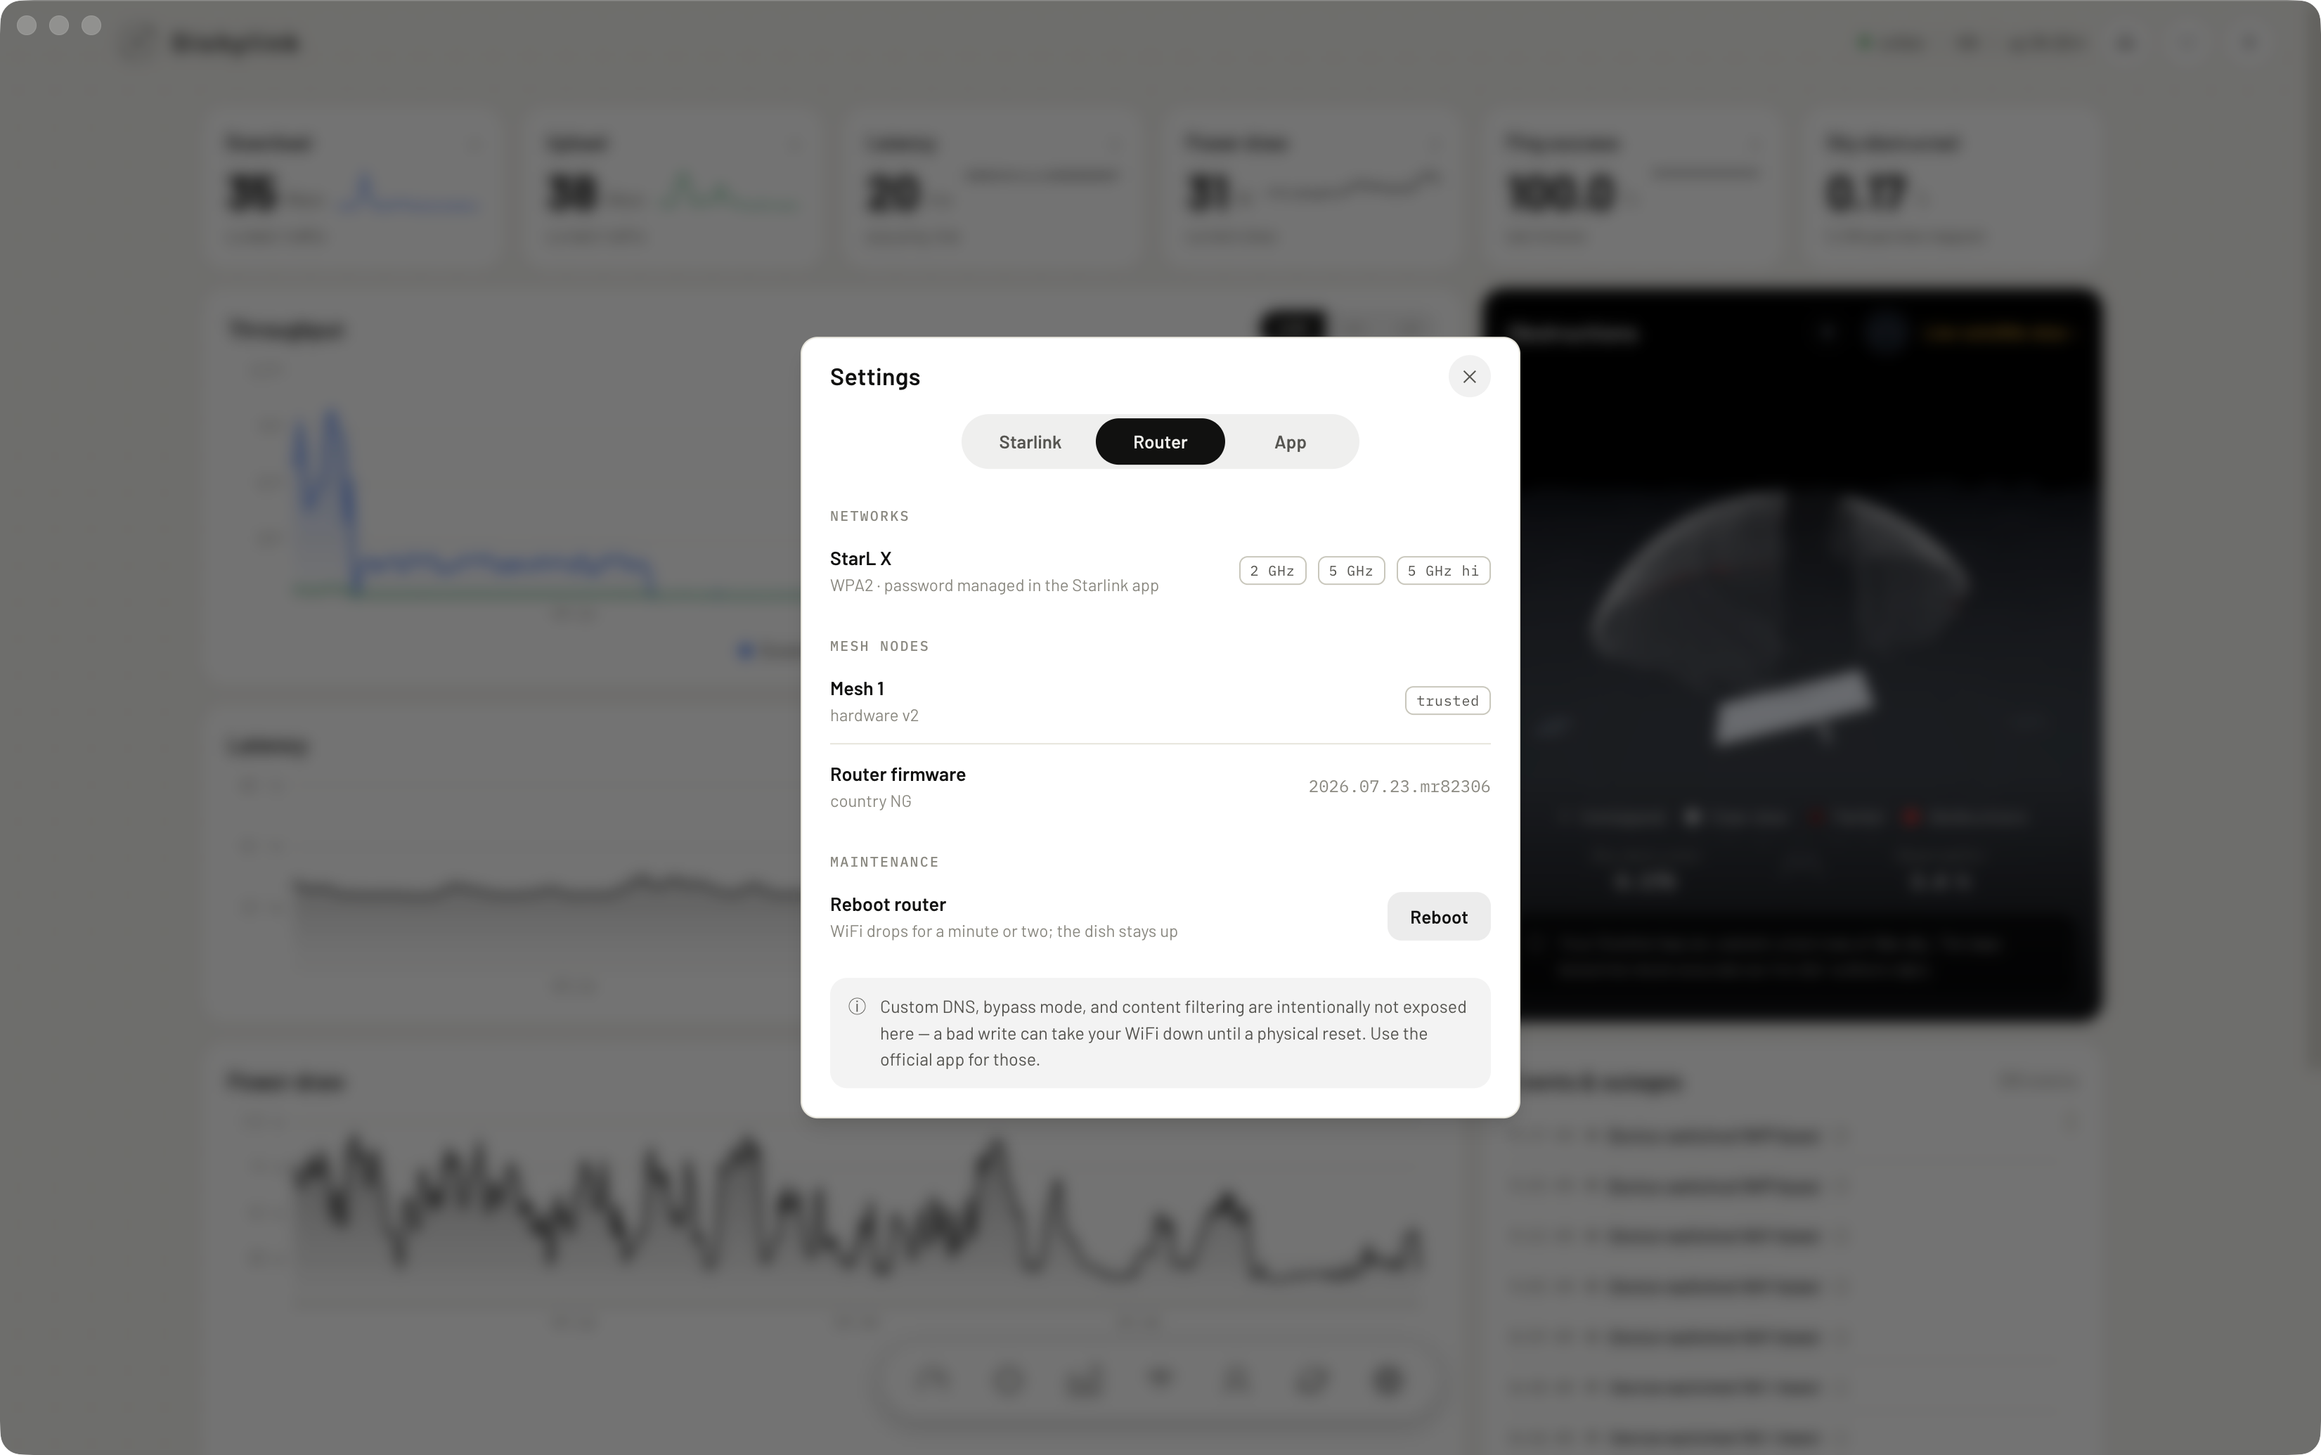
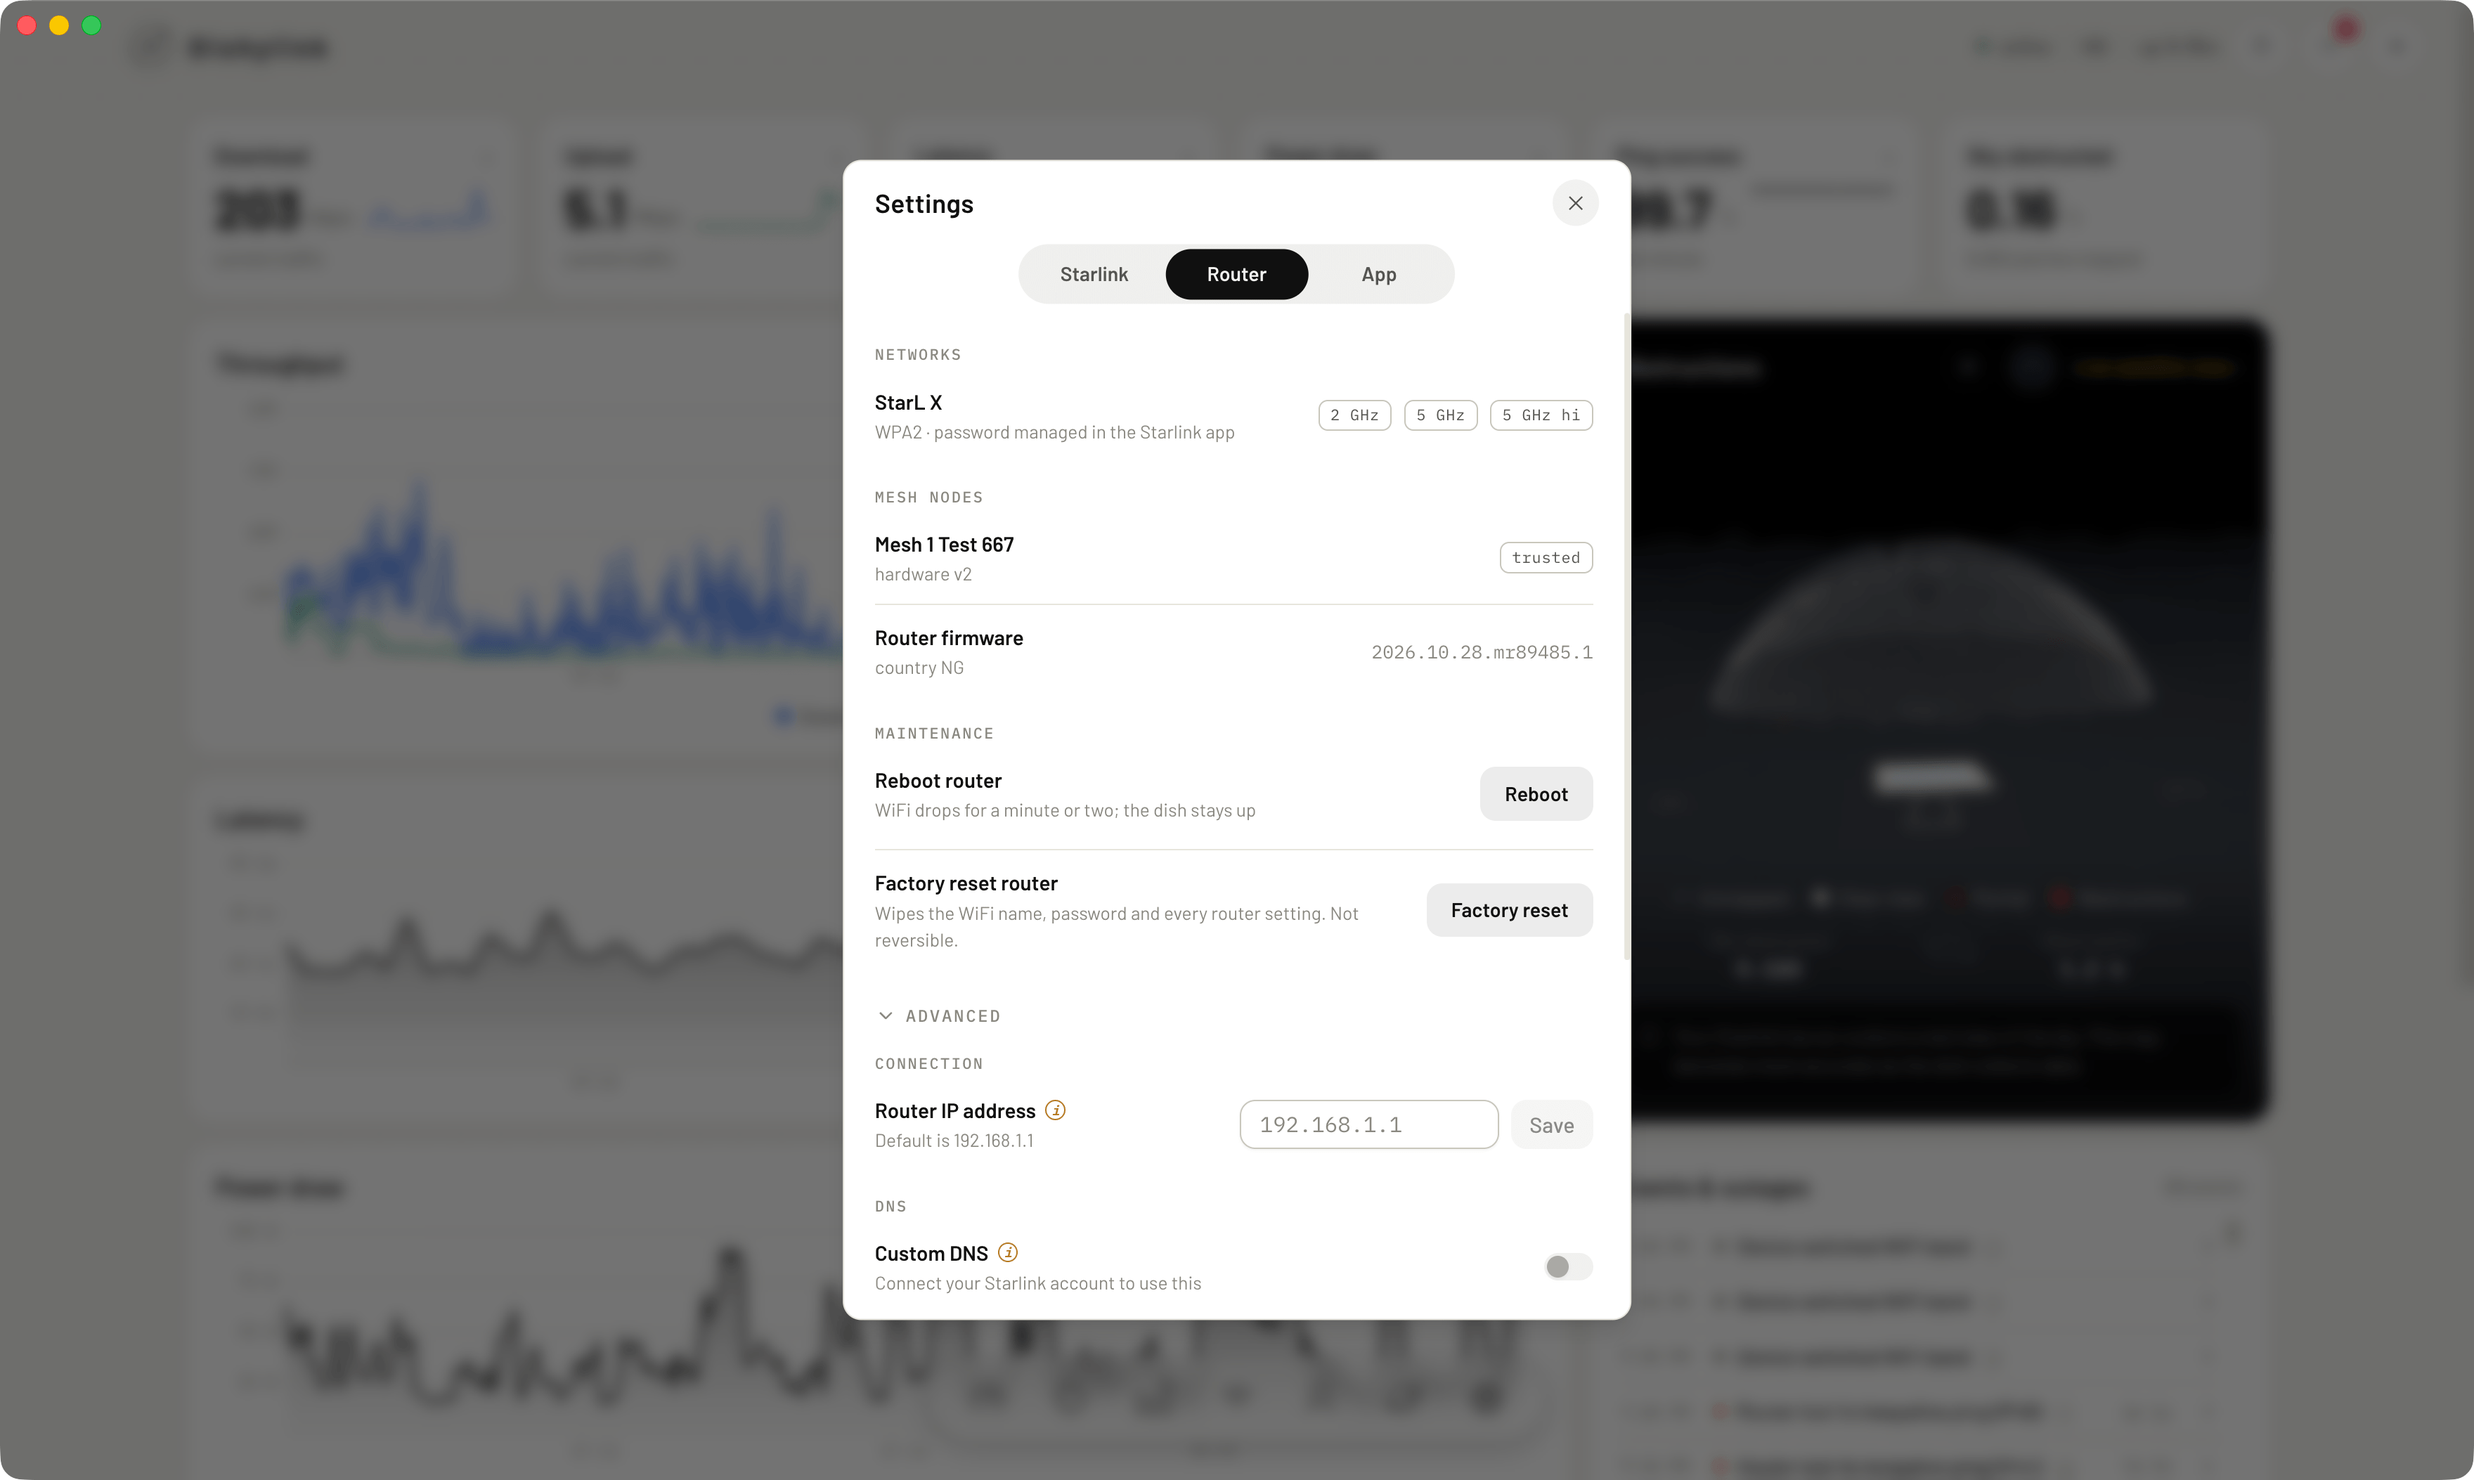
Refresh the landing settings screenshots and copy

diff --git a/landing/src/data/sections.ts b/landing/src/data/sections.ts
@@ -177,7 +177,7 @@ export const sections: SectionContent[] = [
     label: "Network rules",
     id: "rules",
     layout: "media-right",
-    title: "Set rules for every device on your network.",
+    title: "Set rules for devices on your network.",
     body: [
       "Set a data limit, a schedule or a timer on any device, or on a whole group at once. When the data or time runs out, Dishylink pauses it for you, then lets it back on when the next window opens.",
       "Connect your Starlink account and the pausing happens on its own.",
@@ -225,16 +225,16 @@ export const sections: SectionContent[] = [
     title: "Direct control of your Starlink hardware.",
     body: [
       "Manage configuration for your dish and local network. Control routine maintenance, software updates, and power management with ease on supported firmware versions.",
-      "Custom DNS, bypass mode and content filtering are deliberately left out — a bad write can take your WiFi down until a physical reset.",
+      "Content filtering is deliberately left out — a bad write can take your WiFi down until a physical reset.",
     ],
     media: [
       screenshot(
         "settings-starlink",
-        "Dishylink's settings on the Starlink tab: snow melt, sleep schedule, a software update window set to overnight around 3 AM, firmware deferral, a debug data copy button, and maintenance actions to reset the obstruction map or reboot the dish.",
+        "Dishylink's settings on the Starlink tab: snow melt, sleep schedule, a software update window set to overnight around 3 AM, firmware deferral, a debug data copy button, and maintenance actions to reset the obstruction map, reboot the dish or factory reset it.",
       ),
       screenshot(
         "settings-router",
-        "The Router tab of the same settings panel: the StarL X network with its 2 GHz, 5 GHz and 5 GHz hi bands, a trusted Mesh 1 node, router firmware and country, and a reboot router action.",
+        "The Router tab of the same settings panel: the StarL X network with its 2 GHz, 5 GHz and 5 GHz hi bands, a trusted mesh node, router firmware and country, reboot and factory reset actions, and an Advanced section with the router IP address and custom DNS.",
       ),
     ],
   },
